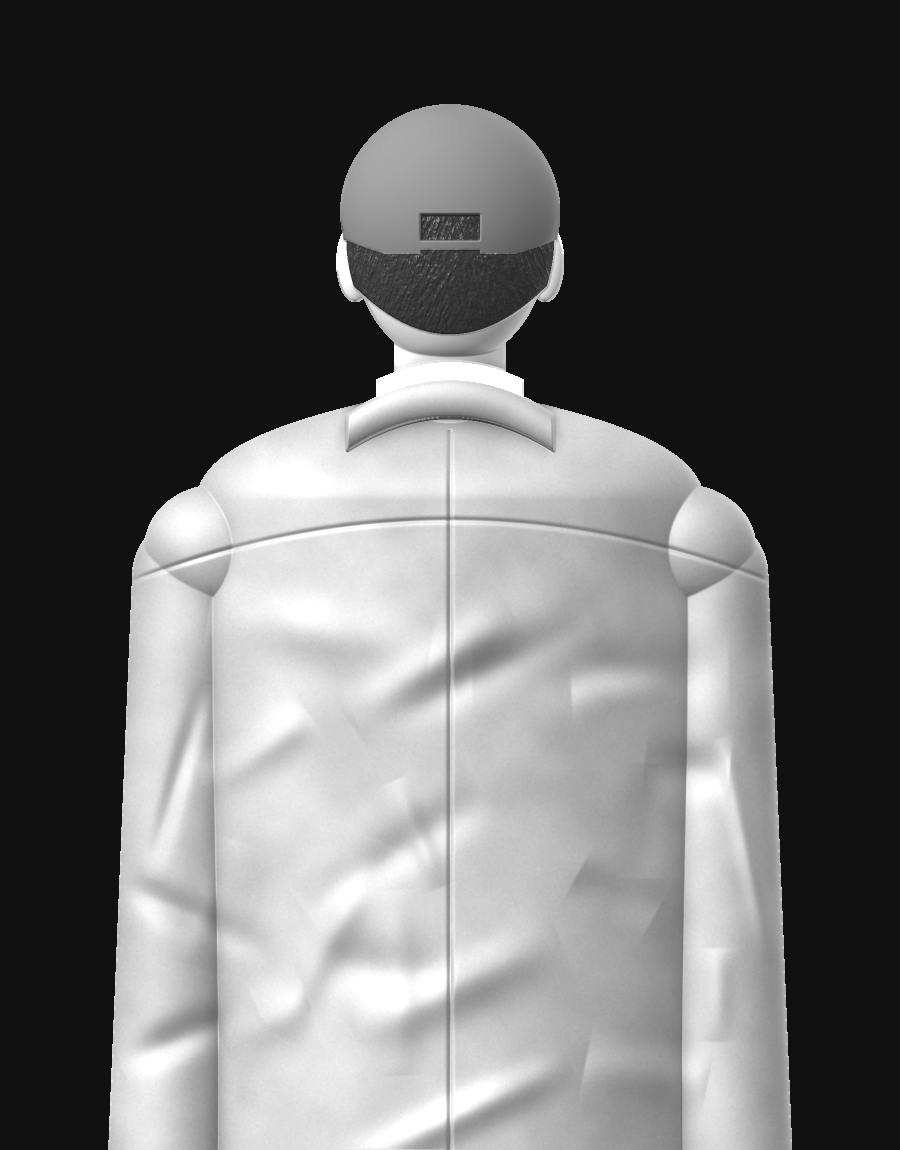
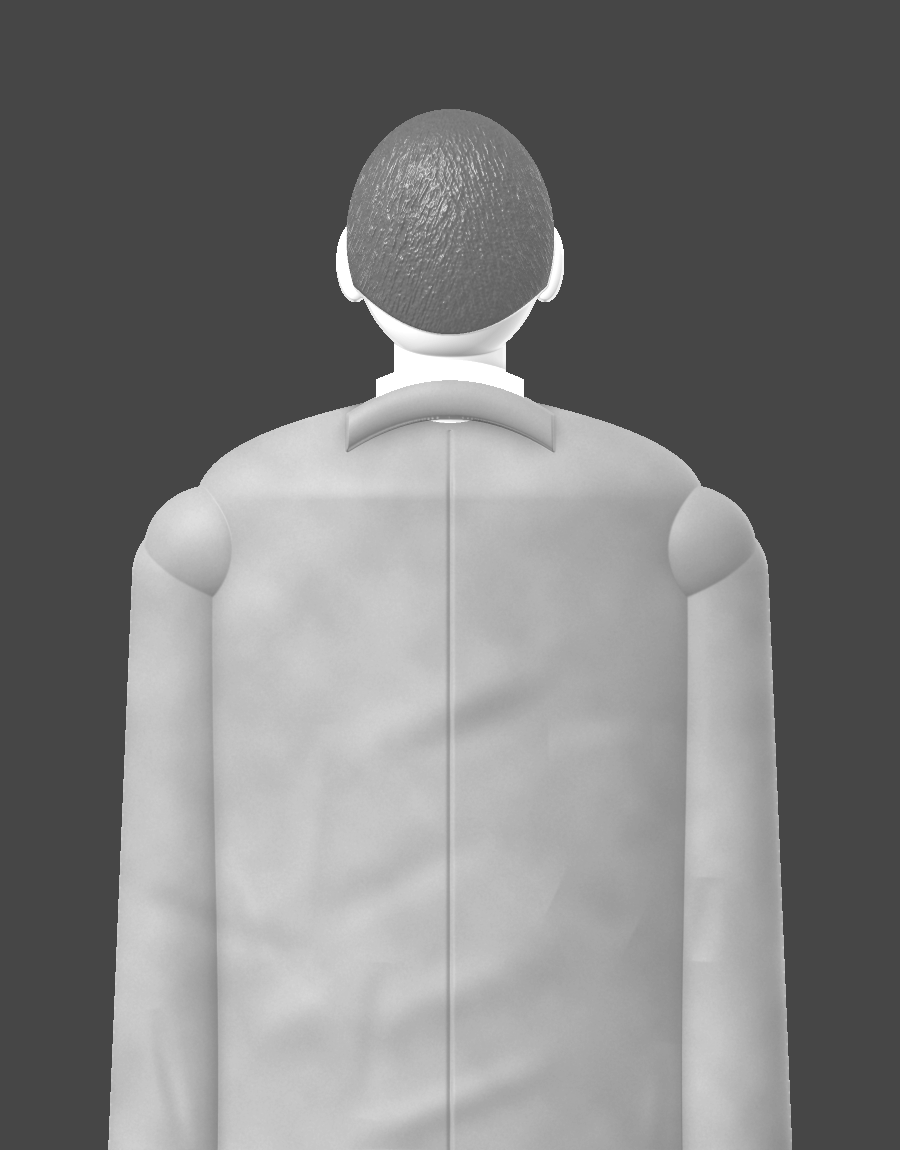
Tune layouts, chaos range, fallbacks; add part-mask and transcription tools
- lockup sits on a plane near the hero (sharp, little parallax drift) and
  overlaps a rotation-aware top contour; backing/card laid under the lockup
- push-ins land on the hero's upper part; foreground scraps kept at the sides
- selective recolour keeps the part's shading at full accent strength
- hero edges favour clean cuts (plain print only for real photographs)
- wider chaos=1 amplitudes; stop-motion smear softened; grain boils on steps
- procedural fallbacks for gate, concrete, soban, house and mountains
- tools/transcribe.py (local Whisper + VAD) and tools/part_mask.py

Claude-Session: https://claude.ai/code/session_01HfrcskE61tHNs8KqokU3Gd

diff --git a/collage/scene.py b/collage/scene.py
@@ -96,14 +96,14 @@ def build_scene(spec, build, pool, W=1920, H=1080):
 
     # 2. background scatter: torn newspaper fragments, low contrast, placed by the seed
     n_sc = spec.get("scatter")
-    n_sc = int(round(build.amt(5, 11))) if n_sc is None else int(n_sc)
+    n_sc = int(round(build.amt(5, 14))) if n_sc is None else int(n_sc)
     if ink_page:
         n_sc = 0
     for i in range(n_sc):
         frag = pool.fragment((sid, i), scale=float(rng.uniform(0.8, 1.35)))
         x = float(rng.uniform(-0.60, 0.60)) * W * D_PAGE
         y = float(rng.uniform(-0.58, 0.58)) * H * D_PAGE
-        rot = build.jit(rng, 4.0, 38.0) + (90.0 if rng.random() < 0.12 else 0.0)
+        rot = build.jit(rng, 4.0, 60.0) + (90.0 if rng.random() < 0.12 else 0.0)
         add(Layer(frag, D_PAGE - 0.0006 * (i + 1), x, y, rot, shadow=0.30, page=D_PAGE, name=f"scatter{i}"))
 
     # 3. supporting elements (black and white only) ----------------------------------------
@@ -120,10 +120,10 @@ def build_scene(spec, build, pool, W=1920, H=1080):
                            card=ss.get("card"))
         depth = float(ss.get("depth", 1.05))
         ax, ay = ss.get("at", [0, 0])
-        sx = ax + build.jit(srng, 4, 70)
-        sy = ay + build.jit(srng, 4, 55)
-        srot = float(ss.get("rot", 0.0)) + build.jit(srng, 0.6, 9.0)
-        ssc = 1.0 + build.jit(srng, 0.01, 0.10)
+        sx = ax + build.jit(srng, 4, 110)
+        sy = ay + build.jit(srng, 4, 85)
+        srot = float(ss.get("rot", 0.0)) + build.jit(srng, 0.6, 14.0)
+        ssc = 1.0 + build.jit(srng, 0.01, 0.14)
         t_in = float(ss.get("enter", t0 + 0.15 + 0.14 * j))
         sup_times.append(t_in)
         ent = _enter(build, srng, ss.get("enter_kind"))
@@ -150,9 +150,9 @@ def build_scene(spec, build, pool, W=1920, H=1080):
         el = build_element(asset, build, (sid, "hero"), role="hero", height=float(hs.get("height", 720)),
                            res=float(hs.get("res", 1.2)), accent=hs.get("accent"), edge=hs.get("edge"),
                            crop=hs.get("crop"), bands=bands, card=hs.get("card"))
-        hscale = 1.0 + build.jit(hrng, 0.0, 0.07)
-        hrot = float(hs.get("rot", 0.0)) + build.jit(hrng, 0.3, 4.0)
-        hx = float(hs.get("x", 0.0)) + build.jit(hrng, 4, 60)
+        hscale = 1.0 + build.jit(hrng, 0.0, 0.10)
+        hrot = float(hs.get("rot", 0.0)) + build.jit(hrng, 0.3, 7.0)
+        hx = float(hs.get("x", 0.0)) + build.jit(hrng, 4, 90)
         tx, ty = el.meta["top_x"], el.meta["top_y"]
         finite = np.isfinite(ty)
         if "top" in hs:
@@ -218,7 +218,7 @@ def build_scene(spec, build, pool, W=1920, H=1080):
             y_top = float(np.min(cand)) if el.meta["person"] else float(np.percentile(cand, 3))
             ov = float(ls.get("overlap", 0.30 if el.meta["person"] else -0.02)) + build.jit(lrng, 0.0, 0.04)
             ly = y_top + ov * cap - base_off
-        lrot = build.jit(lrng, 0.2, 2.5)
+        lrot = build.jit(lrng, 0.2, 4.0)
         ent = _enter(build, lrng, ls.get("enter_kind", "drop"), 0.6)
         ent["dscale"] = 0.06 + 0.05 * c
         ent["lift"] = 0.0
@@ -250,10 +250,10 @@ def build_scene(spec, build, pool, W=1920, H=1080):
             if pc.role == "band":
                 i = pc.index
                 side = 1 if (i % 2 == 0) == (brng.random() < 0.5) else 0
-                px += build.jit(brng, 0.004, 0.045) * el.meta["subject_w"]
-                rot += build.jit(brng, 0.25, 3.2)
+                px += build.jit(brng, 0.004, 0.085) * el.meta["subject_w"]
+                rot += build.jit(brng, 0.25, 6.0)
                 depth = D_HERO - 0.002 * i
-                t_in = t_hero + i * stagger + build.jit(brng, 0.0, 0.05)
+                t_in = t_hero + i * stagger + build.jit(brng, 0.0, 0.09)
                 ent = _enter(build, brng, "slide", 0.9, side=side)
                 ent["dy"] = build.jit(brng, 5, 40)
                 dur = 0.55
@@ -283,7 +283,7 @@ def build_scene(spec, build, pool, W=1920, H=1080):
     n_fg = int(rng.integers(1, 3)) if n_fg is None else int(n_fg)
     for k in range(n_fg):
         frng = build.rng("fg", sid, k)
-        kind = build.pick(frng, ["news", "tape", "paper"], [0.45, 0.30, 0.25])
+        kind = build.pick(frng, ["news", "tape", "paper"], [0.6, 0.4, 0.0])
         if kind == "news":
             spr = pool.fragment((sid, "fg", k), scale=1.1, contrast=0.32)
         elif kind == "tape":
@@ -299,10 +299,11 @@ def build_scene(spec, build, pool, W=1920, H=1080):
             rgb = P.PAPER * paper_luma(fh, fw, frng, 1.0)[..., None]
             spr = Sprite(rgb, torn_mask(fh, fw, frng, 1.3, 7.0), None, res=1.0)
         depth = float(frng.uniform(0.58, 0.78))
-        side = build.pick(frng, ["l", "r", "t", "b"], [0.4, 0.4, 0.2, 0.0])
+        # left/right edges only: the lockup lives at the top, the hero in the middle
+        side = build.pick(frng, ["l", "r", "t", "b"], [0.5, 0.5, 0.0, 0.0])
         if side in ("l", "r"):
-            sx = (-1 if side == "l" else 1) * float(frng.uniform(0.46, 0.58)) * W
-            sy = float(frng.uniform(-0.42, 0.30)) * H
+            sx = (-1 if side == "l" else 1) * float(frng.uniform(0.50, 0.60)) * W
+            sy = float(frng.uniform(-0.30, 0.35)) * H
         else:
             sx = float(frng.uniform(-0.45, 0.45)) * W
             sy = (-1 if side == "t" else 1) * float(frng.uniform(0.46, 0.56)) * H

diff --git a/tools/part_mask.py b/tools/part_mask.py
@@ -1,0 +1,68 @@
+#!/usr/bin/env python3
+"""Make NAME.part.png - the single part that defines a subject (for the selective-recolour accent).
+
+The part = subject matte  AND  inside a region  AND  within a luminance range, then cleaned up
+(largest components, holes filled). Coordinates are fractions of the image (0..1).
+
+    # the jacket on a figure: everything dark below the neck
+    python tools/part_mask.py sources/man_back.jpg --region 0,0.30,1,1 --luma 0,0.38
+    # a gate: the dark steel plate between two piers
+    python tools/part_mask.py sources/sluice_gate.jpg --region 0.40,0.30,0.60,0.82 --luma 0,0.45 --matte none
+"""
+import argparse
+import os
+import sys
+
+import cv2
+import numpy as np
+
+HERE = os.path.dirname(os.path.dirname(os.path.abspath(__file__)))
+sys.path.insert(0, HERE)
+
+from collage import segment  # noqa: E402
+
+
+def main():
+    ap = argparse.ArgumentParser()
+    ap.add_argument("image")
+    ap.add_argument("--region", default="0,0,1,1", help="x0,y0,x1,y1 as fractions")
+    ap.add_argument("--luma", default="0,1", help="min,max luminance (0..1) of the part")
+    ap.add_argument("--matte", default="isnet", choices=["isnet", "u2net", "key", "none"])
+    ap.add_argument("--keep", type=int, default=2, help="keep the N largest components")
+    ap.add_argument("--out")
+    a = ap.parse_args()
+    bgr = cv2.imread(a.image, cv2.IMREAD_COLOR)
+    rgb = cv2.cvtColor(bgr, cv2.COLOR_BGR2RGB).astype(np.float32) / 255.0
+    h, w = rgb.shape[:2]
+    if a.matte in ("isnet", "u2net"):
+        m = segment.refine(segment.predict(rgb, a.matte)) > 0.5
+    elif a.matte == "key":
+        m = segment.refine(segment.key_matte(rgb), lo=0.2, hi=0.8) > 0.5
+    else:
+        m = np.ones((h, w), bool)
+    x0, y0, x1, y1 = [float(v) for v in a.region.split(",")]
+    reg = np.zeros((h, w), bool)
+    reg[int(y0 * h):int(y1 * h), int(x0 * w):int(x1 * w)] = True
+    lo, hi = [float(v) for v in a.luma.split(",")]
+    L = cv2.GaussianBlur(0.299 * rgb[..., 0] + 0.587 * rgb[..., 1] + 0.114 * rgb[..., 2], (0, 0), 2.0)
+    part = (m & reg & (L >= lo) & (L <= hi)).astype(np.uint8)
+    part = cv2.morphologyEx(part, cv2.MORPH_CLOSE, np.ones((9, 9), np.uint8))
+    part = cv2.morphologyEx(part, cv2.MORPH_OPEN, np.ones((5, 5), np.uint8))
+    n, lab, stats, _ = cv2.connectedComponentsWithStats(part, 8)
+    if n > 1:
+        order = np.argsort(-stats[1:, cv2.CC_STAT_AREA])[:a.keep] + 1
+        part = np.isin(lab, order).astype(np.uint8)
+    inv = (1 - part).astype(np.uint8)
+    n2, lab2, st2, _ = cv2.connectedComponentsWithStats(inv, 4)
+    for i in range(1, n2):
+        x, y, bw, bh, area = st2[i]
+        if x > 0 and y > 0 and x + bw < w and y + bh < h and area < 0.02 * h * w:
+            part[lab2 == i] = 1
+    soft = cv2.GaussianBlur(part.astype(np.float32), (0, 0), 1.2) * m
+    out = a.out or os.path.splitext(a.image)[0] + ".part.png"
+    cv2.imwrite(out, (np.clip(soft, 0, 1) * 255).astype(np.uint8))
+    print(f"[part] {out}  coverage={soft.mean():.3f}")
+
+
+if __name__ == "__main__":
+    main()

diff --git a/collage/subject.py b/collage/subject.py
@@ -104,7 +104,7 @@ def build_element(asset, build, key, role="support", height=500.0, res=1.25, acc
     bw_, bh_ = x1 - x0, y1 - y0
     # crop: fractions of the bbox; chaos nudges the crop edges
     cx0, cy0, cx1, cy1 = crop if crop is not None else (0.0, 0.0, 1.0, 1.0)
-    jit = [build.jit(rng, 0.0, 0.05) for _ in range(4)]
+    jit = [build.jit(rng, 0.0, 0.08) for _ in range(4)]
     if crop is not None:
         cx0, cy0 = np.clip(cx0 + jit[0] * (cx0 > 0), 0, 1), np.clip(cy0 + jit[1] * (cy0 > 0), 0, 1)
         cx1, cy1 = np.clip(cx1 + jit[2] * (cx1 < 1), 0, 1), np.clip(cy1 + jit[3] * (cy1 < 1), 0, 1)
@@ -260,8 +260,8 @@ def _band_cuts(build, rng, n, top, bottom, width):
     weights = np.array([1.35] + [1.0] * (n - 1))
     edges = top + span * np.cumsum(weights) / weights.sum()
     for i in range(n - 1):
-        y = edges[i] + build.jit(rng, 0.0, 0.08) * span / n
-        tilt = np.tan(np.deg2rad(build.jit(rng, 0.3, 2.4))) * width
+        y = edges[i] + build.jit(rng, 0.0, 0.14) * span / n
+        tilt = np.tan(np.deg2rad(build.jit(rng, 0.3, 4.0))) * width
         cuts.append((y - tilt / 2, y + tilt / 2))
     cuts.append((bottom + 5.0, bottom + 5.0))
     return cuts

diff --git a/collage/typography.py b/collage/typography.py
@@ -91,8 +91,8 @@ def render_words(line, fnt, build, rng, jit_scale=1.0, tracking=0.0, space_em=0.
     size = fnt.size
     for wd in words:
         m, base, adv, pad = text_mask(wd, fnt, tracking)
-        dy = build.jit(rng, 0.004, 0.045) * size * jit_scale
-        rot = build.jit(rng, 0.15, 2.2) * jit_scale
+        dy = build.jit(rng, 0.004, 0.07) * size * jit_scale
+        rot = build.jit(rng, 0.15, 3.4) * jit_scale
         pieces.append((_rotate(m, rot), base, adv, pad, dy))
     total = sum(p[2] for p in pieces) + space_em * size * (len(pieces) - 1)
     return pieces, total

diff --git a/make_sources.py b/make_sources.py
@@ -36,7 +36,7 @@ GENERATORS = {
     "sticker_like": (lambda: docs.sticker("좋아요", seed=23, w=620, filled=False), {}),
     "tape": (lambda: docs.tape(), {}),
     # fallbacks, used only when no photograph with this name exists
-    "man_back": (lambda: figures.man_back("jumper"), {"person": True}),
+    "man_back": (lambda: figures.man_back("suit"), {"person": True}),
     "woman_back": (lambda: figures.woman_back(), {"person": True}),
     "sluice_gate": (lambda: objects.sluice_gate(), {}),
     "concrete": (lambda: objects.concrete(), {}),

diff --git a/render.py b/render.py
@@ -45,7 +45,7 @@ def ffmpeg_bin():
 class Timeline:
     """Scenes + transitions. Transition specs live on the INCOMING scene."""
 
-    PUSH_OUT, PUSH_IN, SLIDE = 0.30, 0.55, 0.42
+    PUSH_OUT, PUSH_IN, SLIDE = 0.30, 0.55, 0.60
 
     def __init__(self, scenes, duration):
         self.scenes = scenes

diff --git a/README.md b/README.md
@@ -93,7 +93,14 @@ python render.py storyboards/gimje_1997.json --stills 3 10.5 31.9 --scale 0.5   
 
 ---
 
-## 4. 파일 구조
+## 4. 이번 빌드 & 검증
+
+- 최종본: \`--seed 1997 --chaos 0.4\`, 1920×1080 30fps H.264(CRF 21) + AAC 192k, 2분 13초. 빌드 매니페스트(\`output/*.json\`)에 장면별로 시드가 고른 강조 방식·가장자리 처리·띠 개수가 기록됩니다.
+- 재현성: 같은 시드·chaos로 따로 두 번 렌더한 프레임의 md5가 동일, 시드를 1만 바꿔도 배치·가장자리·회전·배경이 모두 달라짐을 확인했습니다.
+- chaos 0 → 띠가 정렬되고 회전이 거의 없는 깨끗한 구도, chaos 1 → 띠 오프셋 ±8.5%, 회전 ±6°, 요소 회전 ±14°, 배경 조각 최대 14장.
+- 사진을 받으면: \`sources/\`에 같은 이름(\`man_back\`, \`woman_back\`, \`sluice_gate\`, \`soban\`, \`concrete\`, \`rural_house\`, \`mountains\`)으로 넣고 \`prep_subject.py --batch sources/\` 후 같은 시드로 다시 렌더하면 연출은 그대로, 피사체만 실사로 바뀝니다.
+
+## 5. 파일 구조
 
 ```
 render.py                 스토리보드 → 영상/정지 프레임 (멀티프로세스, ffmpeg 인코딩 + 오디오 합성)
@@ -109,7 +116,7 @@ data/ korea_map.json transcript_gimje_1997.json
 sources/  assets/  fonts/  audio/
 ```
 
-## 5. 출처·라이선스
+## 6. 출처·라이선스
 - 폰트: Hahmlet, Nanum Myeongjo, Old Standard TT — SIL Open Font License (`fonts/OFL-*.txt`)
 - 지도: 통계청 2013 행정경계 (southkorea/southkorea-maps) 를 단순화
 - 배경 제거 모델: rembg 공개 ONNX(ISNet general-use, U²-Net) — 최초 실행 시 `~/.cache/collage-models`에 내려받음
